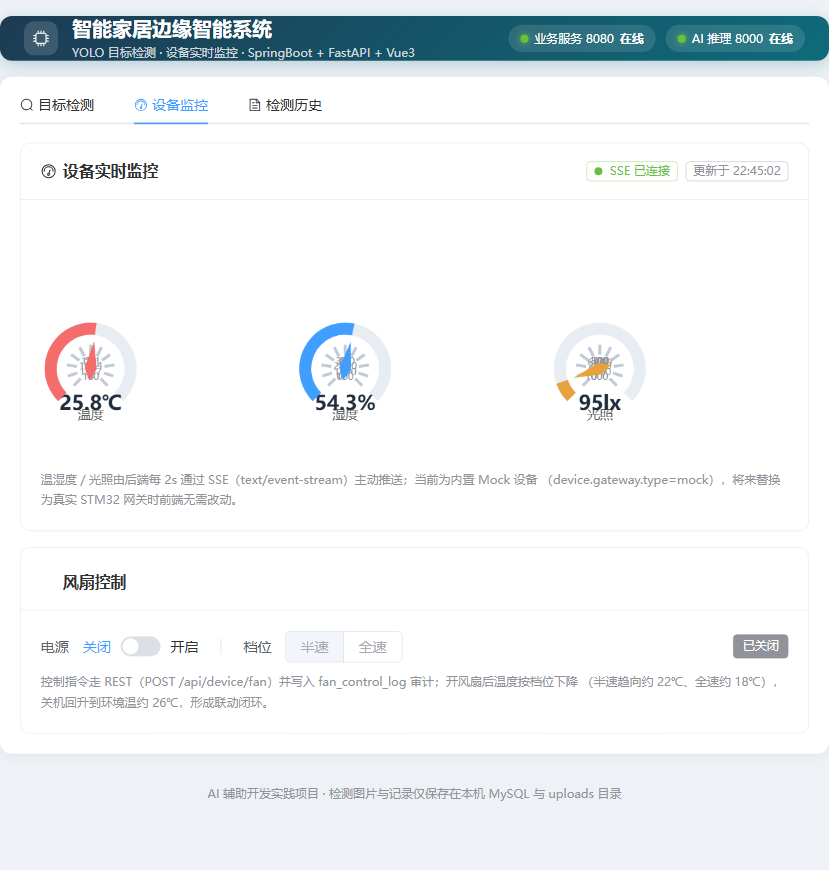
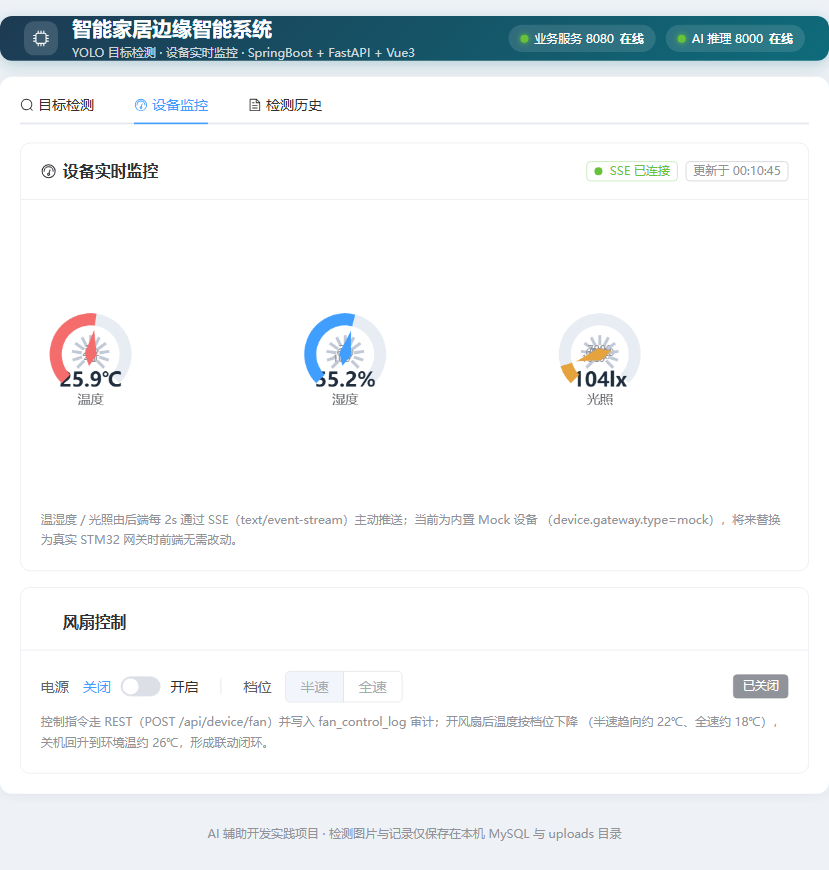
fix(device): 仪表盘标题间距与温湿度变化速率调优
1.前端gauge调整半径/中心/数值与标题偏移及图表高度，温湿度/光照标题移到弧下方独立位置；2.Mock物理模型温度逼近系数0.18→0.05（每2s逼近5%、分钟级趋稳），温湿度与光照噪声同步减小；3.实测全速32s温度26.0→21.5℃（调慢前7s即降到21.8），重拍截图05/06并同步PROJECT_CONTEXT。

diff --git a/web/src/components/DevicePanel.vue b/web/src/components/DevicePanel.vue
@@ -24,8 +24,8 @@ function gaugeOption(value, name, unit, min, max, color, decimals) {
         type: 'gauge',
         min,
         max,
-        radius: '92%',
-        center: ['50%', '62%'],
+        radius: '82%',
+        center: ['50%', '48%'],
         progress: { show: true, width: 12, itemStyle: { color } },
         axisLine: { lineStyle: { width: 12, color: [[1, '#e8edf3']] } },
         axisTick: { show: false },
@@ -37,10 +37,10 @@ function gaugeOption(value, name, unit, min, max, color, decimals) {
           valueAnimation: true,
           color: '#1f2d3d',
           fontSize: 20,
-          offsetCenter: [0, '78%'],
+          offsetCenter: [0, '66%'],
           formatter: (v) => `${decimals ? Number(v).toFixed(decimals) : Math.round(v)}${unit}`,
         },
-        title: { offsetCenter: [0, '102%'], color: '#606266', fontSize: 13 },
+        title: { offsetCenter: [0, '112%'], color: '#606266', fontSize: 13 },
         data: [{ value: value ?? 0, name }],
       },
     ],
@@ -251,7 +251,7 @@ onUnmounted(() => {
 }
 .chart {
   width: 100%;
-  height: 240px;
+  height: 280px;
 }
 .fan-row {
   display: flex;

diff --git a/server/src/main/java/com/smarthome/device/MockDeviceGateway.java b/server/src/main/java/com/smarthome/device/MockDeviceGateway.java
@@ -69,19 +69,19 @@ public class MockDeviceGateway implements DeviceGateway {
     private State evolve(State s) {
         ThreadLocalRandom random = ThreadLocalRandom.current();
 
-        // 温度：向当前档位目标值指数逼近 + 小幅随机噪声
+        // 温度：向当前档位目标值缓慢指数逼近（每 2s 逼近 5%，约分钟级趋稳，贴近真实降温节奏）+ 小幅噪声
         double targetTemp = s.fanPower ? (s.fanSpeed == 2 ? FULL_TEMP : HALF_TEMP) : ENV_TEMP;
-        s.temperature = round1(s.temperature + (targetTemp - s.temperature) * 0.18
-                + (random.nextDouble() - 0.5) * 0.16);
+        s.temperature = round1(s.temperature + (targetTemp - s.temperature) * 0.05
+                + (random.nextDouble() - 0.5) * 0.10);
 
-        // 湿度：随温度反向小幅变化（降温略增湿），钳制 30~90%
+        // 湿度：随温度反向缓慢变化（降温略增湿），钳制 30~90%
         double targetHumidity = 55.0 + (ENV_TEMP - s.temperature) * 1.5;
-        double rawHumidity = s.humidity + (targetHumidity - s.humidity) * 0.10
-                + (random.nextDouble() - 0.5) * 0.8;
+        double rawHumidity = s.humidity + (targetHumidity - s.humidity) * 0.04
+                + (random.nextDouble() - 0.5) * 0.6;
         s.humidity = clampDouble(rawHumidity, 30.0, 90.0);
 
-        // 光照：昼夜曲线 + 噪声，仅展示
-        double rawLight = lightNow() + (random.nextDouble() - 0.5) * 30;
+        // 光照：昼夜曲线 + 小幅噪声，仅展示
+        double rawLight = lightNow() + (random.nextDouble() - 0.5) * 16;
         s.light = clampLong(rawLight, 0.0, 1000.0);
         return s;
     }
